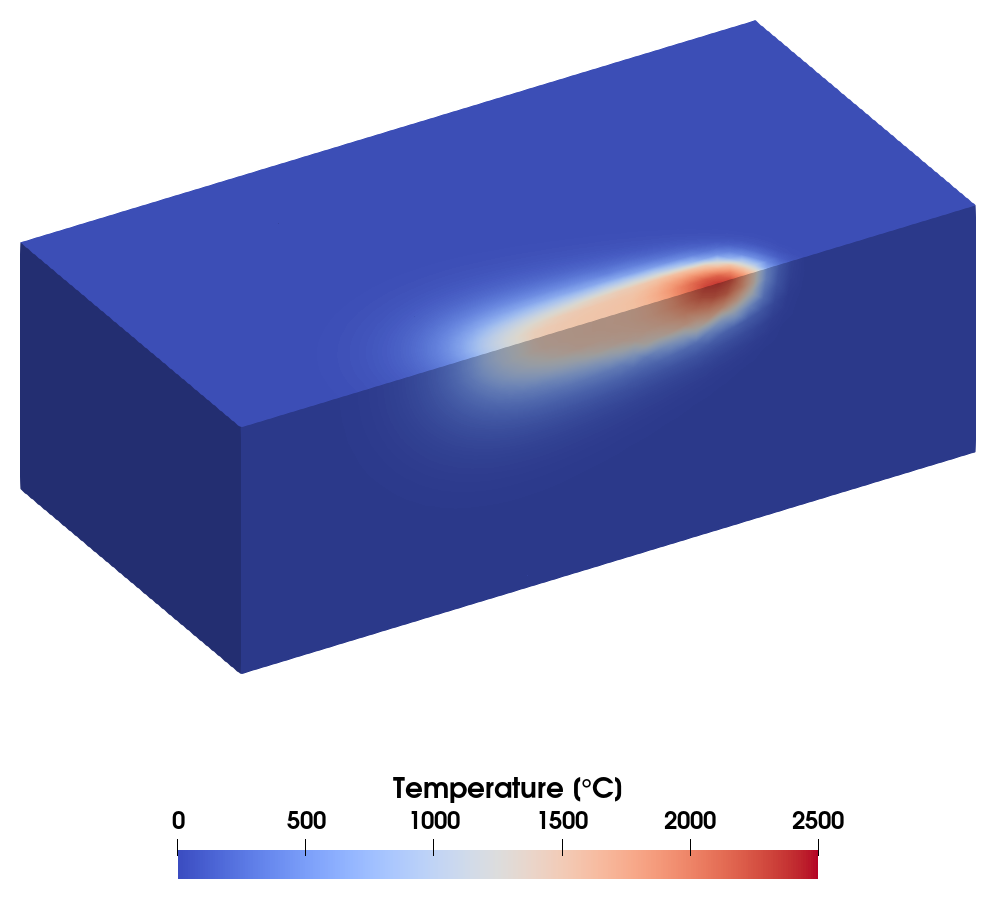
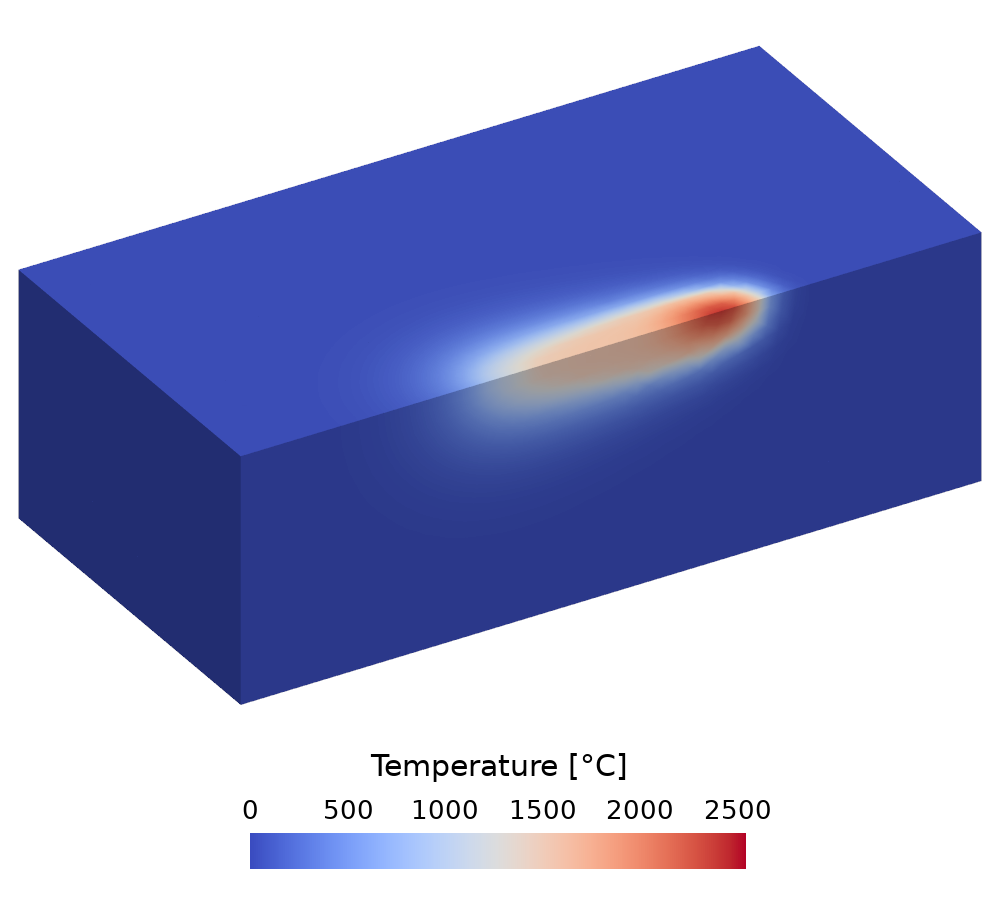
Render the Goldak 1984 scenes with PyVista

Changed region(s): [[0.0, 0.0, 0.996, 0.5295], [0.1556, 0.8409, 0.8404, 0.9967], [0.0, 0.4983, 0.996, 0.7786]]

diff --git a/Thermal/Goldak_1984_Welding_Heat_Source/case.py b/Thermal/Goldak_1984_Welding_Heat_Source/case.py
@@ -230,11 +230,56 @@ class Goldak1984WeldingHeatSource(ValidationCase):
                 path=f"{self.results_path / 'Temperature_vs_Position.png'}",
             )
 
-        # ParaView export (collective) ------------------------------------------------
+        # Field export for the scenes of create_scenes() (collective)
         vis = self.sim.get_field_exporter()
         vis.add_field_output("Temperature")
         vis.add_field_output("VolumetricHeatSource")
         vis.save(order=2)
+
+    def create_scenes(self):
+        # The modeled half plate at the final time, onto the symmetry plane x = 0 (weld path)
+        # and the top surface y = 0.
+        from casekit.pyvista_scene import FieldExportReader, add_colorbar, create_scene
+
+        piece = FieldExportReader(self.dir_path).read()["Piece"]
+        piece["Temperature [°C]"] = piece["Temperature"] - 273.15
+
+        for array, clim, title, n_labels, scale, name in [
+            (
+                "Temperature [°C]",
+                (0.0, 2500.0),
+                "Temperature [°C]",
+                6,
+                1.0,
+                "Scene_Temperature.png",
+            ),
+            (
+                "VolumetricHeatSource",
+                (0.0, 8.0e9),
+                "Heat Source [10⁹ W/m³]",
+                5,
+                1e-9,
+                "Scene_Goldak_Heat_Source.png",
+            ),
+        ]:
+            scene = create_scene((1000, 900))
+            actor = scene.add_mesh(piece, scalars=array, clim=clim)
+            scene.view_vector((-0.25, 0.17, -0.15), viewup=(0, 1, 0))
+            scene.camera.zoom(1.12)
+            # Room for the color bar below: the camera moves down along its up direction.
+            shift = -0.03 * numpy.array(scene.camera.up)
+            scene.camera.focal_point += shift
+            scene.camera.position += shift
+            add_colorbar(
+                scene,
+                actor,
+                title,
+                n_labels=n_labels,
+                label_format="%.0f",
+                location="bottom",
+                scale=scale,
+            )
+            scene.show(screenshot=self.results_path / name)
 
 
 if __name__ == "__main__":

diff --git a/Thermal/Goldak_1984_Welding_Heat_Source/create_geometry_image.py b/Thermal/Goldak_1984_Welding_Heat_Source/create_geometry_image.py
@@ -1,6 +1,6 @@
 """Render data/Geometry.png from geometry.step with the netgen viewer.
 
-The view is the one of the scenes of create_scene.py. Needs a display; headless:
+The view is the one of the scenes of create_scenes() in case.py. Needs a display; headless:
 
     xvfb-run -a -s "-screen 0 2400x1600x24" python create_geometry_image.py
 """
@@ -15,6 +15,6 @@ from casekit.netgen_image import snapshot
 case_dir = Path(__file__).resolve().parent
 
 solids = OCCGeometry(f"{case_dir}/geometry.step").shape.solids
-# The camera of the scenes of create_scene.py: onto the symmetry plane x = 0 and the top surface.
+# The camera of the scenes of create_scenes(): onto the symmetry plane x = 0 and the top surface.
 image = snapshot(solids, direction=(-0.25, 0.17, -0.15), up=(0, 1, 0))
 trim(image).save(case_dir / "data" / "Geometry.png")

diff --git a/Thermal/Goldak_1984_Welding_Heat_Source/README.md b/Thermal/Goldak_1984_Welding_Heat_Source/README.md
@@ -140,8 +140,9 @@ The case checks the temperature at $`x = 15`$ and $`20\,\mathrm{mm}`$ against th
 ## Scenes
 
 The temperature and the heat source are exported to `VisualizationOutput/`; Figure 3 shows them at
-the final time, rendered with ParaView by [create_scene.py](create_scene.py) (run with
-`pvpython create_scene.py` after the case).
+the final time, rendered with [PyVista](https://pyvista.org/) by `create_scenes()` in
+[case.py](case.py) (run the case with `--scenes`, or with `--scenes-only` after a run; see
+[Scenes](https://github.com/Raiden-Numerics/mufem/blob/main/VALIDATION.md#scenes)).
 
 | Temperature | Goldak Heat Source |
 | :---: | :---: |
